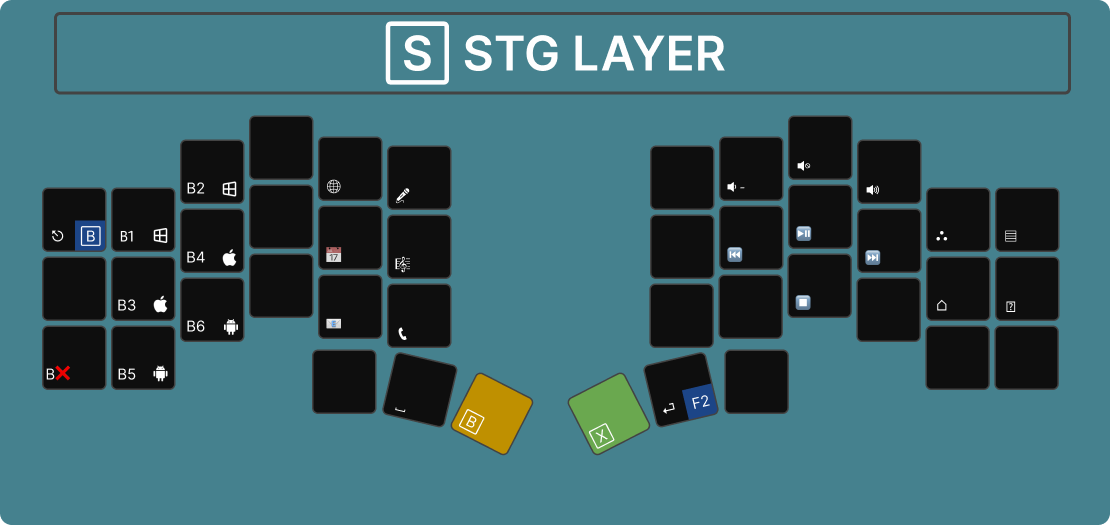
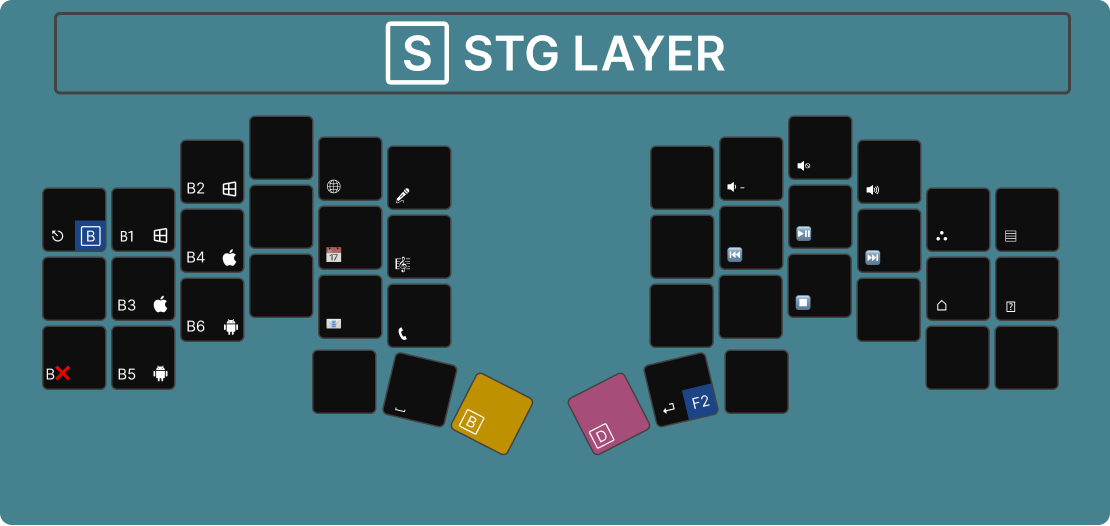
Revert "change to layer DEV behavior"
This reverts commit 89d8611d2179e5824f8de8e98f59ef106c80c656.

Changed region(s): [[0.4901, 0.6996, 0.582, 0.8821]]

diff --git a/docs/windows.md b/docs/windows.md
@@ -173,7 +173,6 @@ Quick navigation actions and numbers. Function keys works independently as a sub
 | <kbd>⇟</kbd>  |                                         | Page down             |
 | <kbd>⇺</kbd>  |                                         | Prev Tab              |
 | <kbd>⇻</kbd>  |                                         | Next Tab              |
-| <kbd>▩</kbd>  |                                        | New desktop           |
 | <kbd>⎗</kbd>  | <kbd>⇧</kbd>+<kbd>⇺</kbd>              | Prev desktop          |
 | <kbd>⎘</kbd>  | <kbd>⇧</kbd>+<kbd>⇻</kbd>              | Next desktop          |
 
